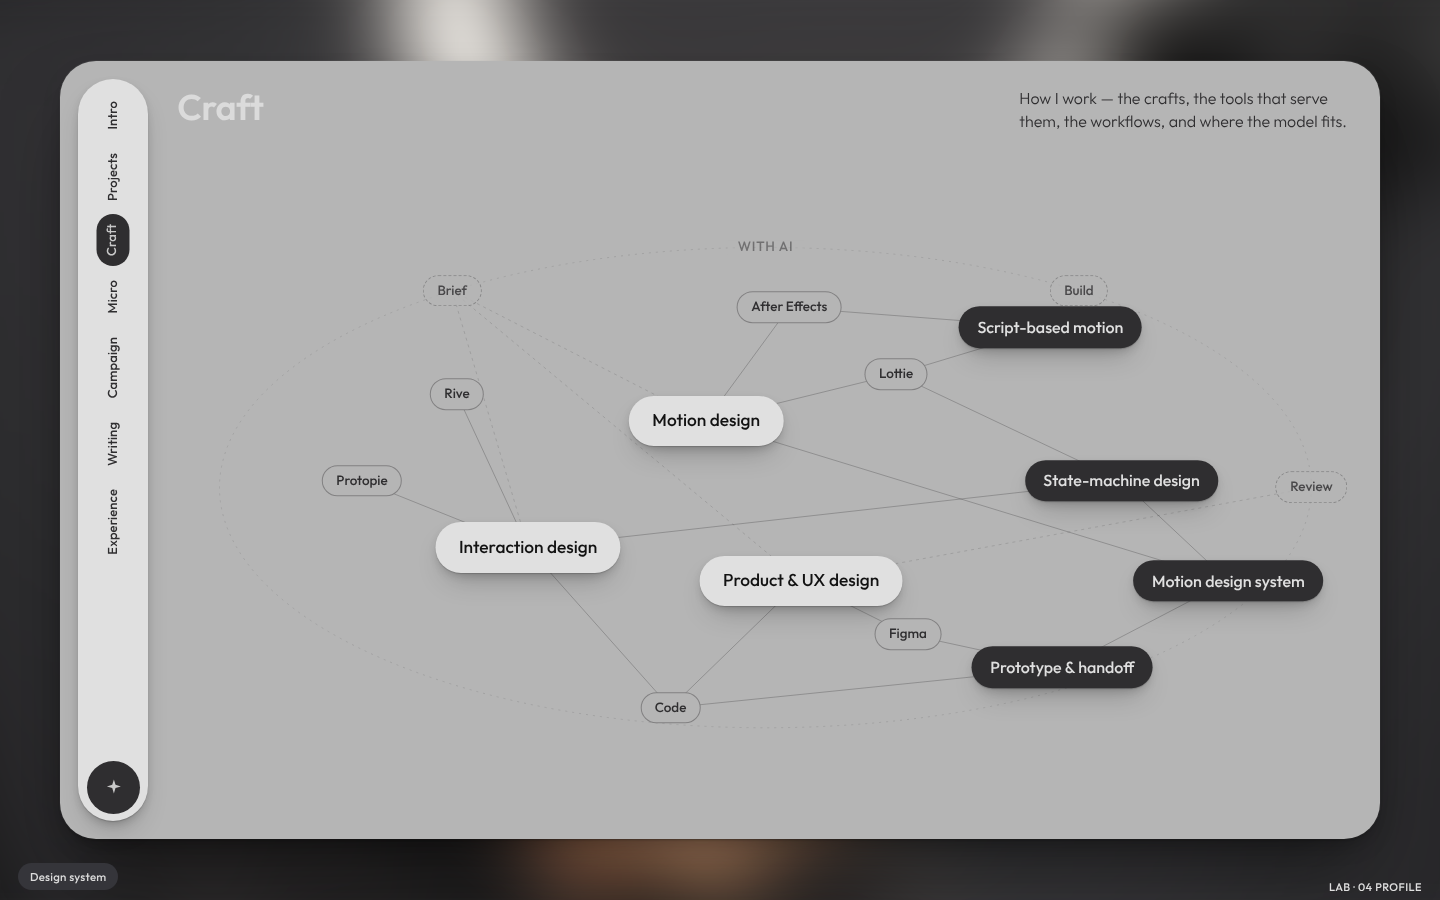
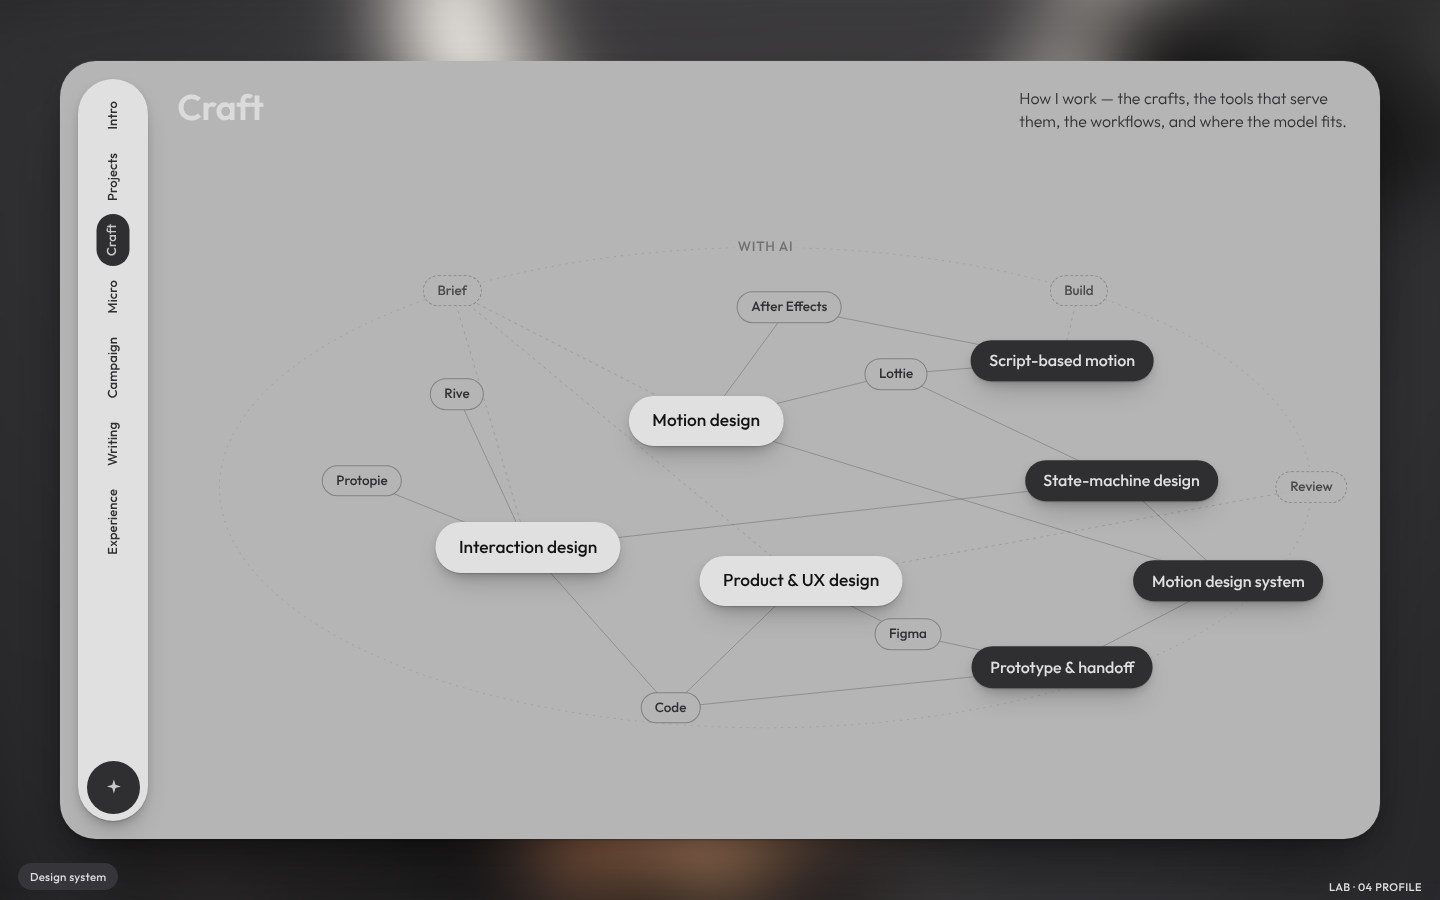
04 Craft: Script-based motion clear of Build
Claude-Session: https://claude.ai/code/session_01XfFywDmuMByKX4aTc2T151

Changed region(s): [[0.6562, 0.3422, 0.8125, 0.4356]]

diff --git a/src/lab/04-profile/Craft04.tsx b/src/lab/04-profile/Craft04.tsx
@@ -27,7 +27,7 @@ export const NODES: Node[] = [
   { id: 'figma', label: 'Figma', kind: 'tool', x: 62, y: 72, text: 'Where the product work is designed.' },
   { id: 'code', label: 'Code', kind: 'tool', x: 42, y: 83, text: 'This site is the sample.' },
   /* the workflows */
-  { id: 'script', label: 'Script-based motion', kind: 'flow', x: 74, y: 26, text: 'A Lottie built by script: change a parameter and the animation follows — it stays a Lottie, not a video.', demo: 'a parameter and the Lottie that follows it' },
+  { id: 'script', label: 'Script-based motion', kind: 'flow', x: 75, y: 31, text: 'A Lottie built by script: change a parameter and the animation follows — it stays a Lottie, not a video.', demo: 'a parameter and the Lottie that follows it' },
   { id: 'sm', label: 'State-machine design', kind: 'flow', x: 80, y: 49, text: 'States, transitions, triggers: one system that holds for every variable. Press a trigger and the component changes state in step.', demo: 'a state machine, live' },
   { id: 'handoff', label: 'Prototype & handoff', kind: 'flow', x: 75, y: 77, text: 'The sheet of what moves, when, on what trigger, on which curve — beside the prototype it describes.', demo: 'the handoff sheet and its prototype' },
   { id: 'msys', label: 'Motion design system', kind: 'flow', x: 89, y: 64, text: 'Durations, easings and choreography as tokens a design system can hold. The system has its own page; the story, a project card.', demo: 'the tokens, moving' },

diff --git a/LOG.md b/LOG.md
@@ -212,6 +212,7 @@ Route: `/lab/04-profile` (the nav sets `/:view`; the home screen and the project
 **Open:** the other views (what each tab shows); what opens on a card click; light mode or dark only; the logo at the nav's head (later, Nitish); the phone layout is a first pass (a column: icon row, picture, lines, name, stack, Off duty).
 
 **History**
+- p36 — (Nitish, 16 Oct) **Script-based motion** moved from (74, 26) to (75, 31) — Build sat right on top of it; now 33 px clear, Lottie 43 px to its left. The tab's name is open again: he finds Craft reasonable but wants options (the page is his skills and the efficient workflow that mixes them).
 - p35 — (Nitish, 16 Oct: "keep photography, cinematography, video and photo editing away currently … most of it is about my current skills and how they are connected through my workflow") **The roots came off the map** — the earlier career may get a tab of its own (the journey), not here. With the lower-left emptied, the ring tightened (ry 44 → 36, its three nodes re-placed on it), Interaction, Protopie, Rive and Code eased down-left into the space, and the whole map dropped 3% to sit centred in its box.
 - p34 — (Nitish, 16 Oct: "no clear nudge about clicking") **Hover opens the card**: a node opens on pointer-enter after 70 ms (a sweep across the map opens nothing), and the card closes 120 ms after the pointer leaves it (the card covers the node's box, so the pointer is on the card as it grows); focus opens too; a click still opens, for touch, and a tap on the floor closes — the floor goes by the click's point, since a tap's click can arrive targeted at the floor (the node opened on the tap's focus, so down and up hit different elements). **Figma** moved from (66, 70) to (62, 69) — the Prototype & handoff pill overlapped it by 17 px; now 30 px clear. The hidden node stays a click target.
 - p33 — (Nitish, 16 Oct: "I thought this would be a little interactive … expanding cards") **A node opens into its card** (`Craft04.tsx`): the pill itself grows into the card — anchored at the node's edges nearest the map's centre so it grows inward, its colour going to the open card's grey, its radius to the standard one, the content laid out at the card's full width from the start and fading in — and shrinks back on close (Escape, the ×, a click on the map's floor, or the node again), the node showing again under it and the card fading out over it in the last stretch; one open at a time; the map does not move. Each card holds a line or two and, where a live demo is to go, its stage marked ("a state machine, live — next"). Verified by frames (open settles by ~400 ms; close ~300 ms). The ring's nodes and the roots open too.
